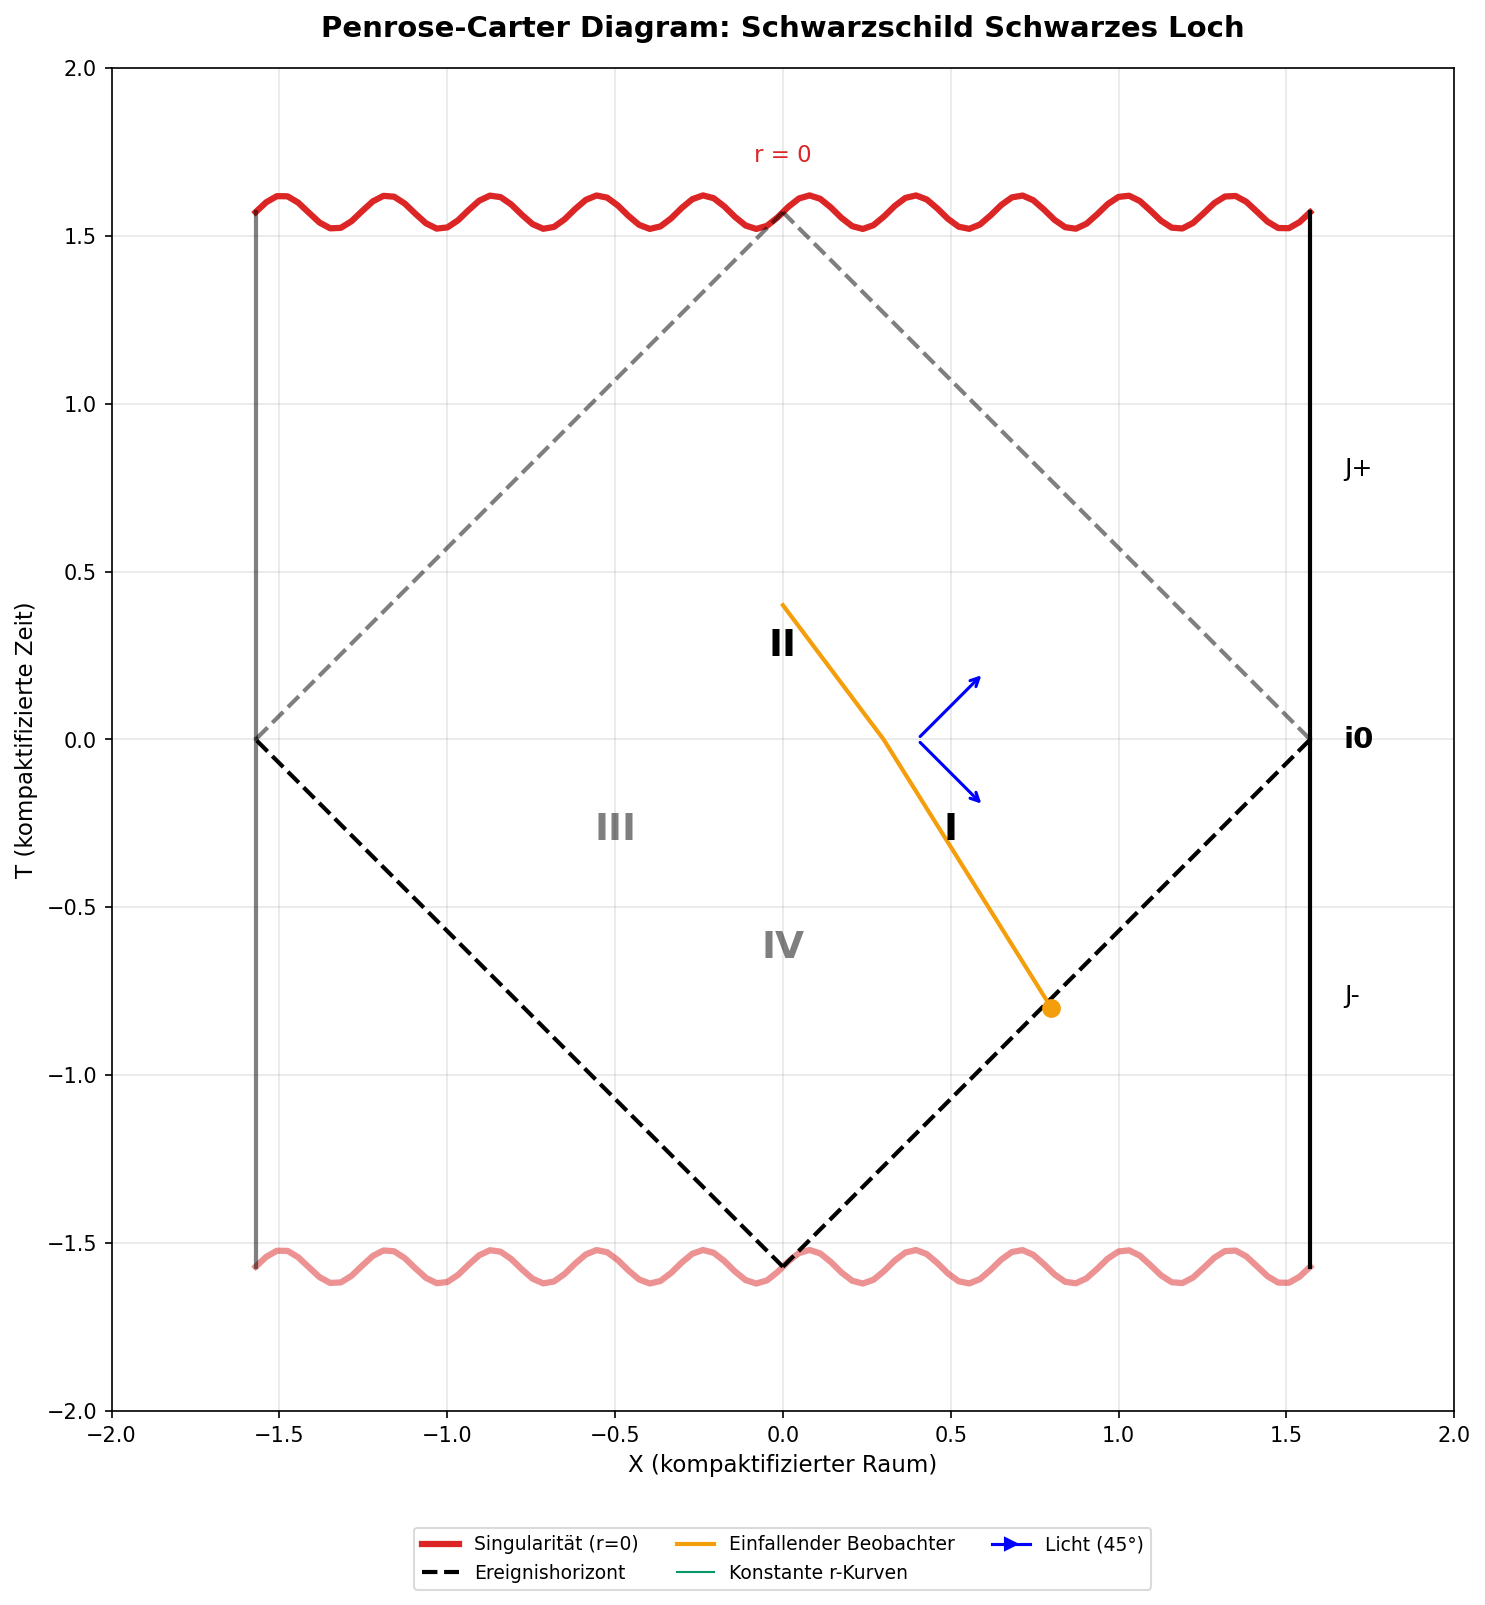
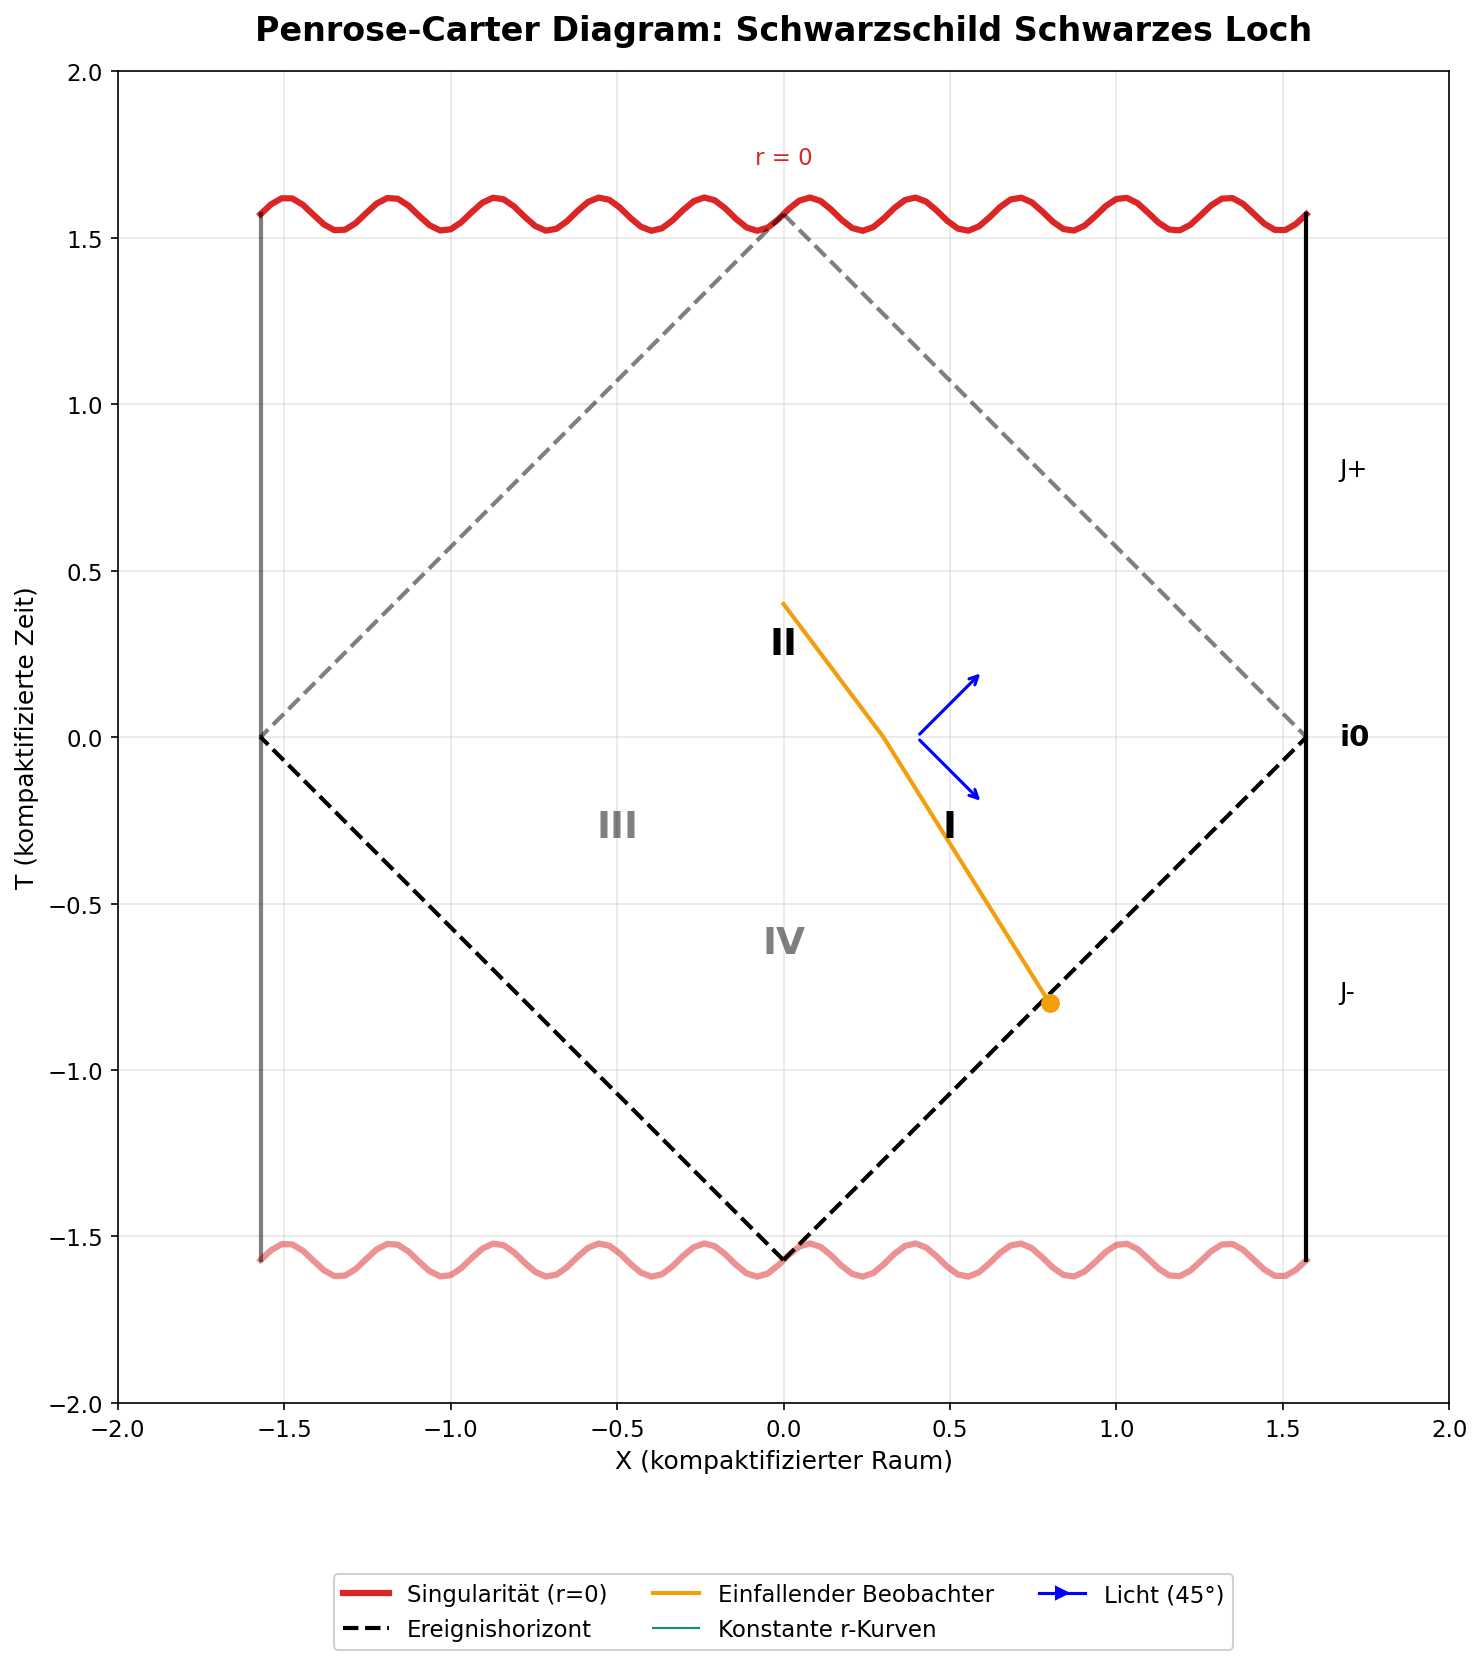
Improve Penrose diagrams: vertical layout and larger fonts
- Change comparison from 1x3 horizontal to 3x1 vertical layout
- Increase figure size (18x10 -> 12x28) for better readability
- Increase all font sizes: titles 12->14, labels 11->12, legends 9->11
- Add descriptive labels to diagram elements (e.g., "i+ (future timelike infinity)")
- Add main suptitle for comparison figure
- Consistent spacing with time dilation graphs (hspace=0.5)
- Regenerate EN + DE versions

diff --git a/modules/spacetime_curvature.py b/modules/spacetime_curvature.py
@@ -2491,11 +2491,12 @@ def plot_penrose_carter_diagram(
     ax.set_xlim(-2, 2)
     ax.set_ylim(-2, 2)
     ax.set_aspect('equal')
-    ax.set_xlabel('X (compactified space)' if language == 'en' else 'X (kompaktifizierter Raum)', fontsize=11)
-    ax.set_ylabel('T (compactified time)' if language == 'en' else 'T (kompaktifizierte Zeit)', fontsize=11)
+    ax.set_xlabel('X (compactified space)' if language == 'en' else 'X (kompaktifizierter Raum)', fontsize=12)
+    ax.set_ylabel('T (compactified time)' if language == 'en' else 'T (kompaktifizierte Zeit)', fontsize=12)
+    ax.tick_params(axis='both', labelsize=11)
 
     ax.set_title(f'Penrose-Carter Diagram: {title}',
-                fontsize=14, fontweight='bold', pad=15)
+                fontsize=16, fontweight='bold', pad=15)
 
     # Legend at bottom
     from matplotlib.lines import Line2D
@@ -2511,8 +2512,8 @@ def plot_penrose_carter_diagram(
         Line2D([0], [0], color='blue', linewidth=1.5, marker='>',
                label='Light (45°)' if language == 'en' else 'Licht (45°)'),
     ]
-    ax.legend(handles=legend_elements, loc='upper center', bbox_to_anchor=(0.5, -0.08),
-              fontsize=9, ncol=3, framealpha=0.7)
+    ax.legend(handles=legend_elements, loc='upper center', bbox_to_anchor=(0.5, -0.12),
+              fontsize=11, ncol=3, framealpha=0.9)
 
     ax.grid(True, alpha=0.3)
 
@@ -2555,12 +2556,14 @@ def plot_penrose_comparison(
     if constants is None:
         constants = get_constants()
 
-    fig, axes = plt.subplots(1, 3, figsize=(18, 10))
+    # Vertical layout (3x1) for better readability
+    fig, axes = plt.subplots(3, 1, figsize=(12, 28))
+    fig.subplots_adjust(hspace=0.5, top=0.95, bottom=0.06)
 
     # Common settings
     titles = {
-        'en': ['Minkowski (Flat)', 'Schwarzschild (Eternal BH)', 'Stellar Collapse'],
-        'de': ['Minkowski (Flach)', 'Schwarzschild (Ewiges SL)', 'Sternkollaps']
+        'en': ['1. Minkowski Spacetime (Flat)', '2. Schwarzschild Spacetime (Eternal Black Hole)', '3. Stellar Collapse to Black Hole'],
+        'de': ['1. Minkowski-Raumzeit (Flach)', '2. Schwarzschild-Raumzeit (Ewiges Schwarzes Loch)', '3. Sternkollaps zum Schwarzen Loch']
     }
 
     for idx, ax in enumerate(axes):
@@ -2568,9 +2571,10 @@ def plot_penrose_comparison(
         ax.set_ylim(-2, 2)
         ax.set_aspect('equal')
         ax.grid(True, alpha=0.3)
-        ax.set_xlabel('X', fontsize=11)
-        ax.set_ylabel('T', fontsize=11)
-        ax.set_title(titles[language][idx], fontsize=12, fontweight='bold')
+        ax.set_xlabel('X (compactified coordinate)' if language == 'en' else 'X (kompaktifizierte Koordinate)', fontsize=12)
+        ax.set_ylabel('T (compactified time)' if language == 'en' else 'T (kompaktifizierte Zeit)', fontsize=12)
+        ax.set_title(titles[language][idx], fontsize=14, fontweight='bold')
+        ax.tick_params(axis='both', labelsize=11)
 
     # ===== MINKOWSKI =====
     ax = axes[0]
@@ -2584,9 +2588,9 @@ def plot_penrose_comparison(
         t_line = np.linspace(-np.pi/2 + abs(x0) + 0.1, np.pi/2 - abs(x0) - 0.1, 30)
         ax.plot(np.ones_like(t_line) * x0, t_line, 'b-', alpha=0.4, linewidth=1)
 
-    ax.text(0, np.pi/2 + 0.15, 'i+', fontsize=14, ha='center', fontweight='bold')
-    ax.text(0, -np.pi/2 - 0.15, 'i-', fontsize=14, ha='center', va='top', fontweight='bold')
-    ax.text(np.pi/2 + 0.1, 0, 'i0', fontsize=12, va='center')
+    ax.text(0, np.pi/2 + 0.15, 'i⁺ (future timelike infinity)', fontsize=12, ha='center', fontweight='bold')
+    ax.text(0, -np.pi/2 - 0.15, 'i⁻ (past timelike infinity)', fontsize=12, ha='center', va='top', fontweight='bold')
+    ax.text(np.pi/2 + 0.1, 0, 'i⁰ (spatial infinity)', fontsize=11, va='center')
 
     # ===== SCHWARZSCHILD =====
     ax = axes[1]
@@ -2605,10 +2609,10 @@ def plot_penrose_comparison(
     ax.plot([0, -np.pi/2], [np.pi/2, 0], 'k--', linewidth=2, alpha=0.5)
 
     # Region labels
-    ax.text(0.5, -0.3, 'I', fontsize=16, fontweight='bold')
-    ax.text(-0.5, -0.3, 'III', fontsize=16, fontweight='bold', alpha=0.5)
-    ax.text(0, 0.2, 'II', fontsize=16, fontweight='bold')
-    ax.text(0, -0.6, 'IV', fontsize=16, fontweight='bold', alpha=0.5)
+    ax.text(0.5, -0.3, 'I (exterior)', fontsize=14, fontweight='bold')
+    ax.text(-0.5, -0.3, 'III (other exterior)', fontsize=12, fontweight='bold', alpha=0.5)
+    ax.text(0, 0.2, 'II (inside BH)', fontsize=14, fontweight='bold')
+    ax.text(0, -0.6, 'IV (white hole)', fontsize=12, fontweight='bold', alpha=0.5)
 
     # ===== STELLAR COLLAPSE =====
     ax = axes[2]
@@ -2638,9 +2642,9 @@ def plot_penrose_comparison(
     # Outer boundary
     ax.plot([np.pi/2, np.pi/2], [-np.pi/2, np.pi/2], 'k-', linewidth=2)
 
-    ax.text(0, np.pi/2 + 0.15, 'r = 0', fontsize=10, ha='center', color=COLORS['relativistic'])
-    ax.text(0.5, -0.5, 'I', fontsize=16, fontweight='bold')
-    ax.text(0, 0.3, 'II', fontsize=16, fontweight='bold')
+    ax.text(0, np.pi/2 + 0.15, 'r = 0 (singularity)', fontsize=12, ha='center', color=COLORS['relativistic'], fontweight='bold')
+    ax.text(0.5, -0.5, 'I (exterior)', fontsize=14, fontweight='bold')
+    ax.text(0, 0.3, 'II (inside BH)', fontsize=14, fontweight='bold')
 
     # Common legend at bottom for all three plots
     from matplotlib.lines import Line2D
@@ -2659,11 +2663,16 @@ def plot_penrose_comparison(
         Line2D([0], [0], color=COLORS['highlight'], linewidth=2,
                label='Star surface' if language == 'en' else 'Sternoberfläche'),
     ]
-    fig.legend(handles=legend_elements, loc='lower center', bbox_to_anchor=(0.5, -0.02),
-               fontsize=9, ncol=6, framealpha=0.7)
+    fig.legend(handles=legend_elements, loc='upper center', bbox_to_anchor=(0.5, 0.02),
+               fontsize=11, ncol=3, framealpha=0.9)
 
-    plt.tight_layout()
-    plt.subplots_adjust(bottom=0.12)  # Make room for legend
+    # Main title
+    if language == 'de':
+        fig.suptitle('Penrose-Carter Diagramme: Vergleich verschiedener Raumzeiten',
+                    fontsize=16, fontweight='bold', y=0.98)
+    else:
+        fig.suptitle('Penrose-Carter Diagrams: Comparison of Different Spacetimes',
+                    fontsize=16, fontweight='bold', y=0.98)
 
     if save:
         os.makedirs(VIS_DIR, exist_ok=True)
